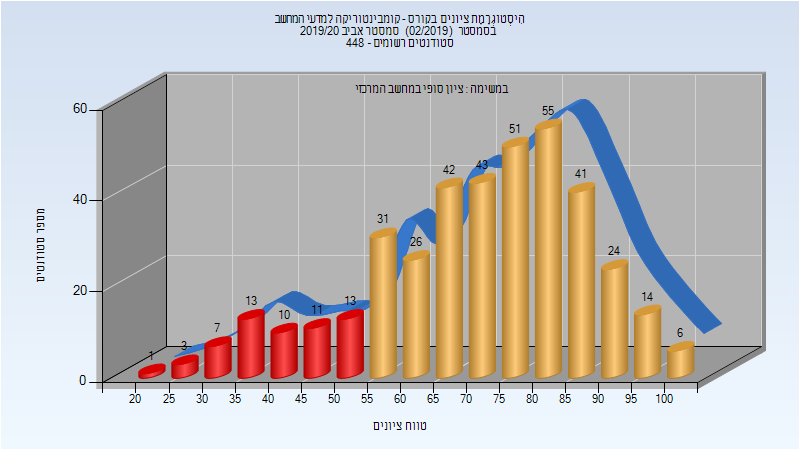
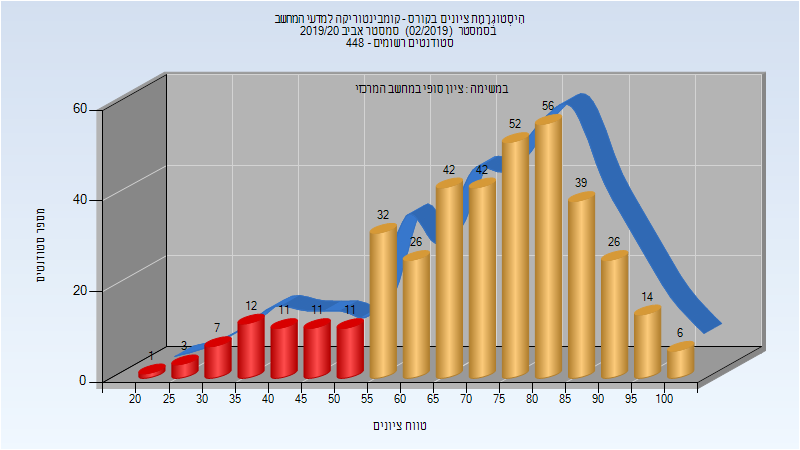
Deploy michael-maltsev/technion-histograms to github.com/michael-maltsev/technion-histograms.git:gh-pages

diff --git a/234124/index.html b/234124/index.html
@@ -188,12 +188,12 @@
 </thead>
 <tbody>
 <tr>
-<td>320</td>
-<td>253/67</td>
-<td>79</td>
-<td>4</td>
+<td>372</td>
+<td>332/40</td>
+<td>89</td>
+<td>17</td>
 <td>100</td>
-<td>70.897</td>
+<td>73.957</td>
 <td>77</td>
 </tr>
 </tbody>

diff --git a/234141/index.html b/234141/index.html
@@ -616,11 +616,11 @@
 <tbody>
 <tr>
 <td>394</td>
-<td>336/58</td>
-<td>85</td>
+<td>338/56</td>
+<td>86</td>
 <td>21</td>
 <td>100</td>
-<td>71.217</td>
+<td>71.332</td>
 <td>74</td>
 </tr>
 </tbody>

diff --git a/234141/README.md b/234141/README.md
@@ -210,7 +210,7 @@
 
 | סטודנטים | עברו/נכשלו | אחוז עוברים | ציון מינימלי | ציון מקסימלי | ממוצע | חציון |
 | ---- | ---- | ---- | ---- | ---- | ---- | ---- |
-| 394 | 336/58 | 85 | 21 | 100 | 71.217 | 74 |
+| 394 | 338/56 | 86 | 21 | 100 | 71.332 | 74 |
 
 ## קיץ 2020
 

diff --git a/234124/README.md b/234124/README.md
@@ -60,5 +60,5 @@
 
 | סטודנטים | עברו/נכשלו | אחוז עוברים | ציון מינימלי | ציון מקסימלי | ממוצע | חציון |
 | ---- | ---- | ---- | ---- | ---- | ---- | ---- |
-| 320 | 253/67 | 79 | 4 | 100 | 70.897 | 77 |
+| 372 | 332/40 | 89 | 17 | 100 | 73.957 | 77 |
 
